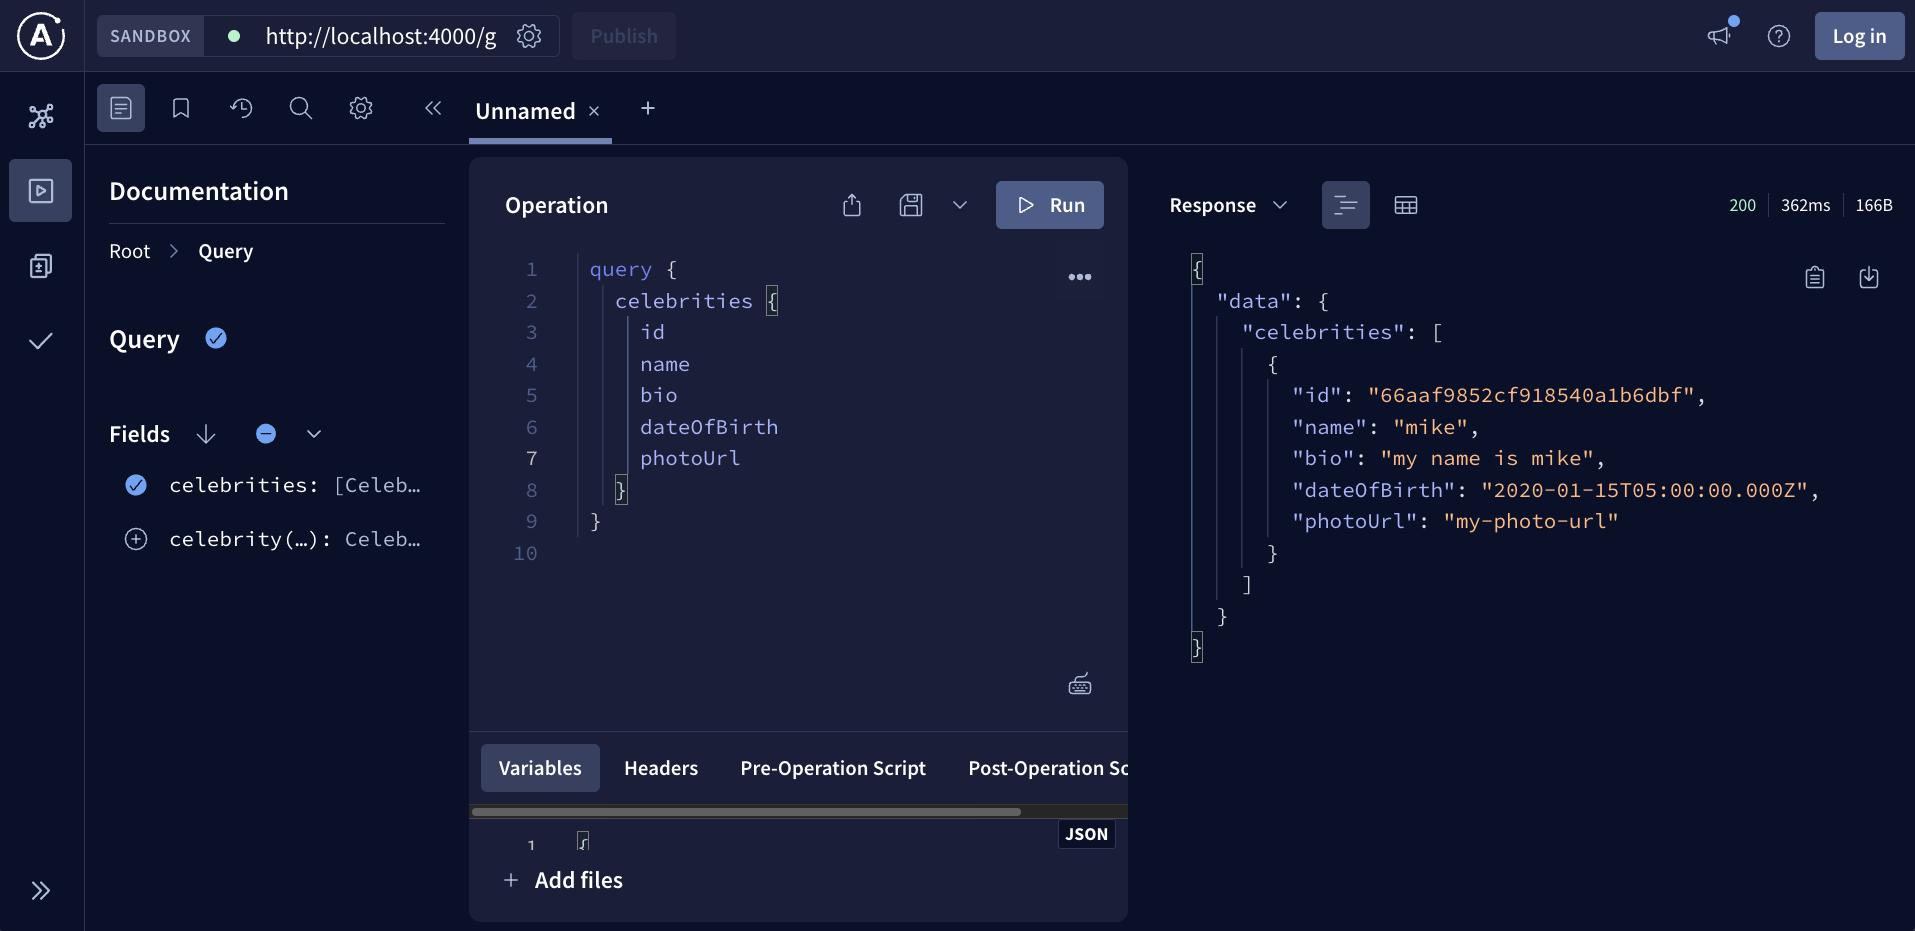
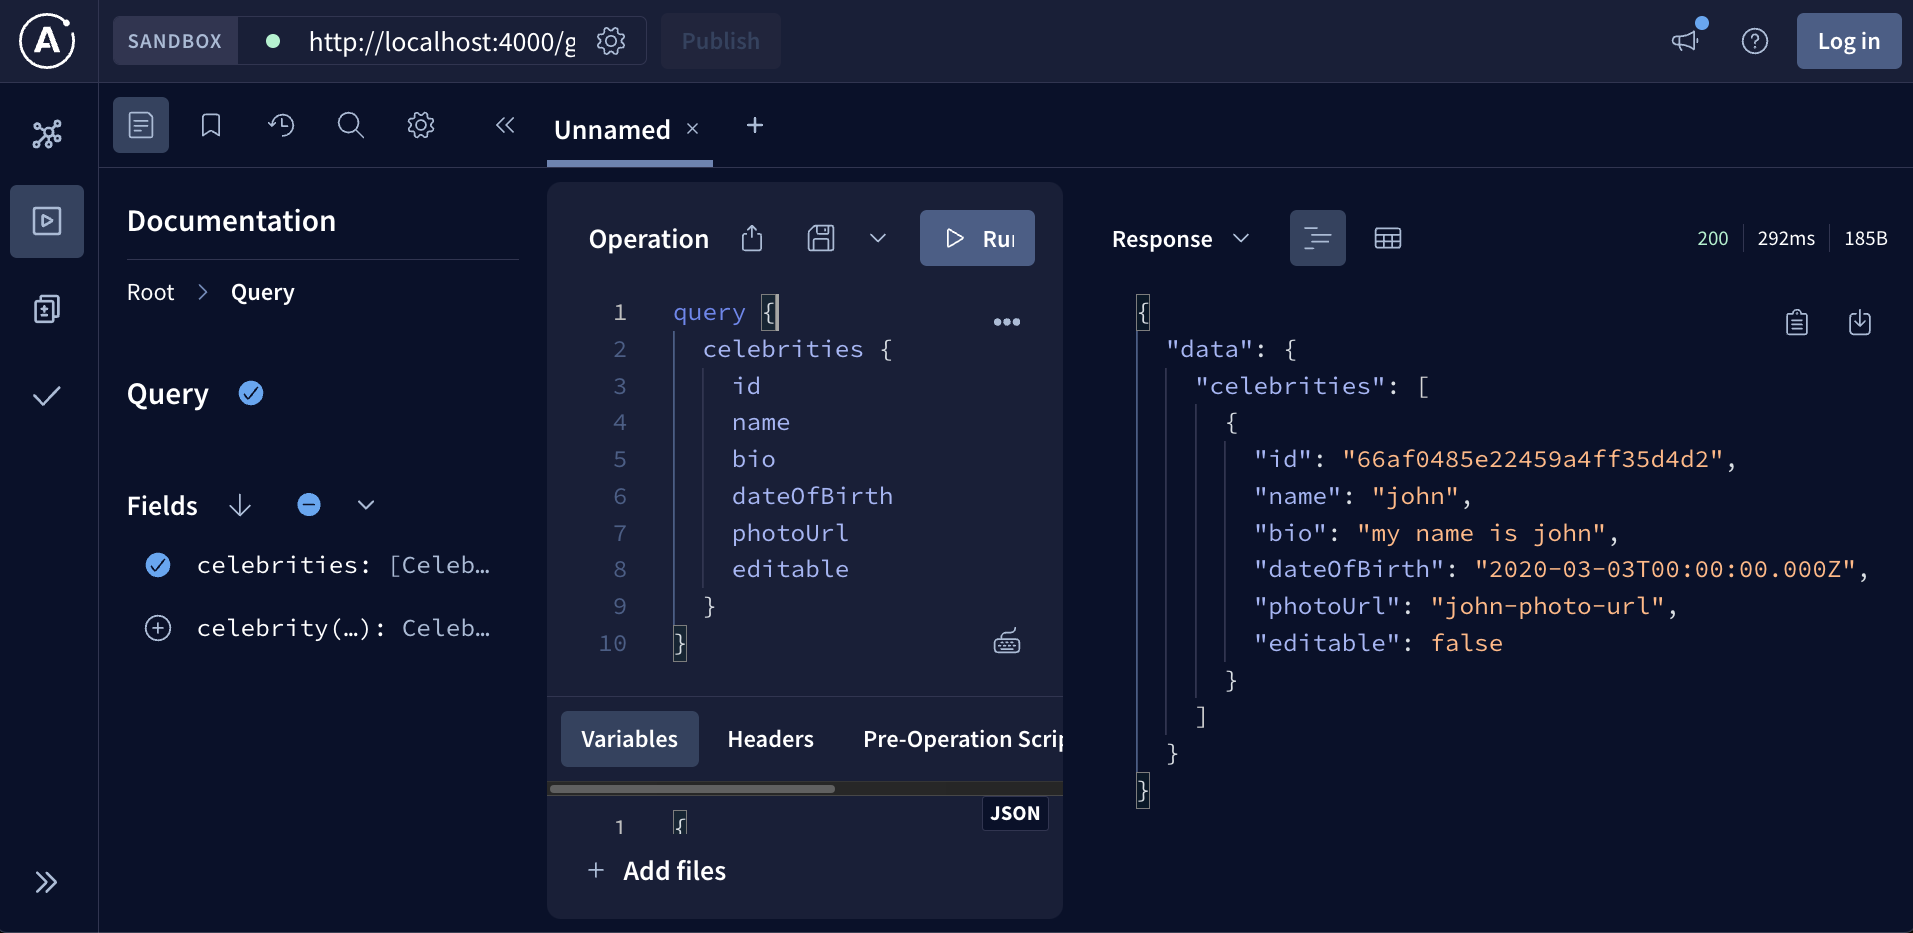
Updated README

diff --git a/README.md b/README.md
@@ -36,6 +36,7 @@ query {
     bio
     dateOfBirth
     photoUrl
+    editable
   }
 }
 ```
@@ -63,7 +64,7 @@ This mutation creates a new celebrity by passing the celebrity object:
 
 ```graphql
 mutation {
-  createCelebrity(celebrity: {name: "__NAME__", bio: "__BIO__", dateOfBirth: "__DATE_OF_BIRTH__", photoUrl: "__PHOTO_URL__"}) {
+  createCelebrity(celebrity: {name: "__NAME__", bio: "__BIO__", dateOfBirth: "__DATE_OF_BIRTH__", photoUrl: "__PHOTO_URL__", editable: "__EDITABLE__"}) {
     id
     ...
   }
